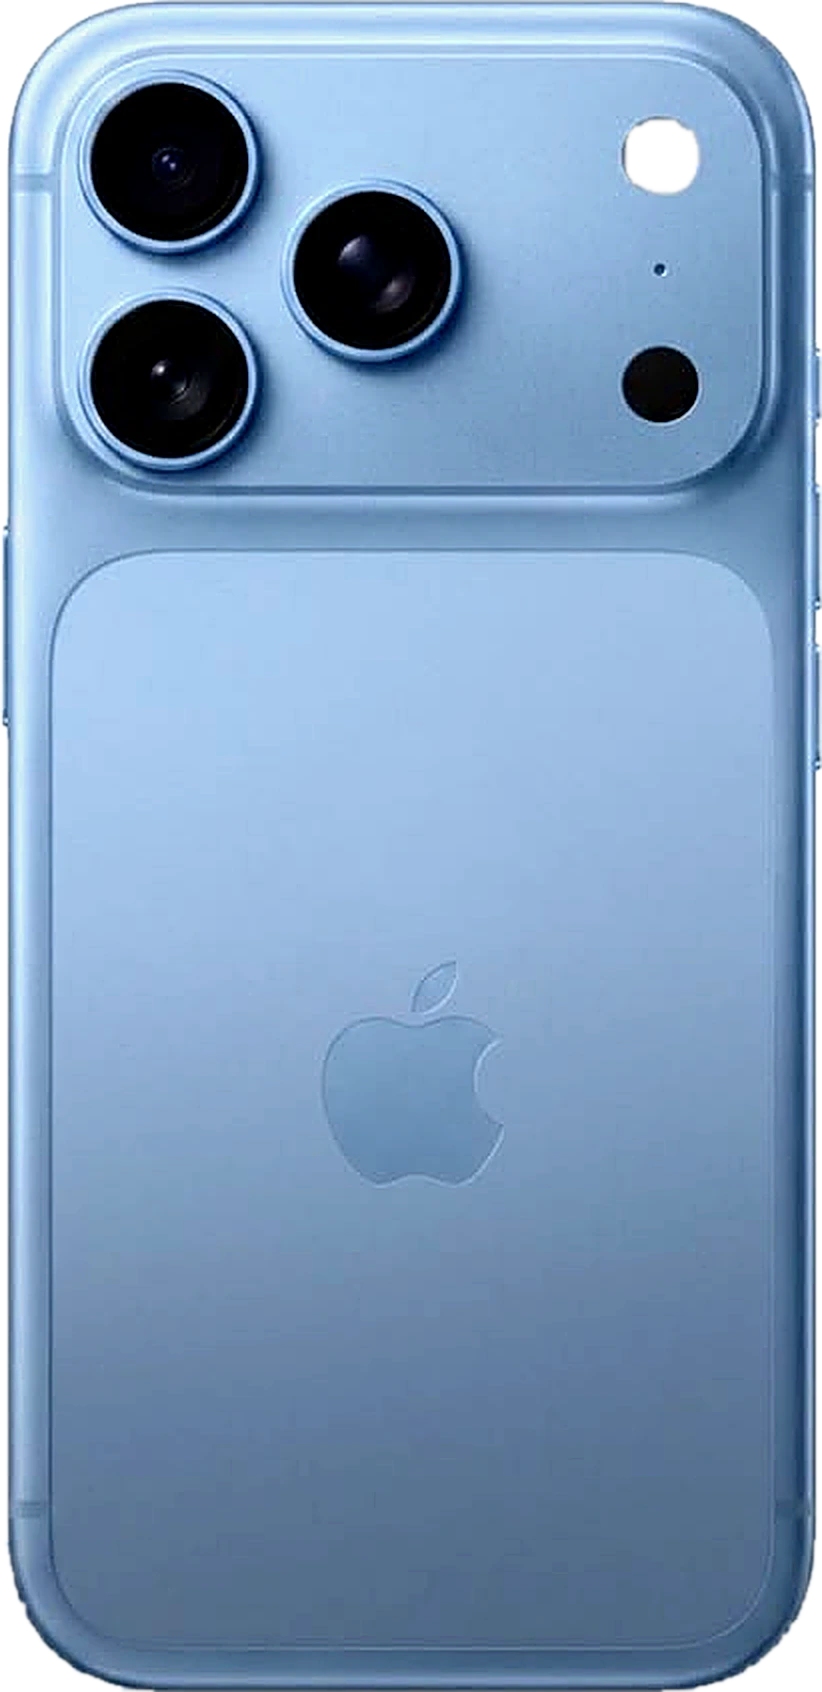
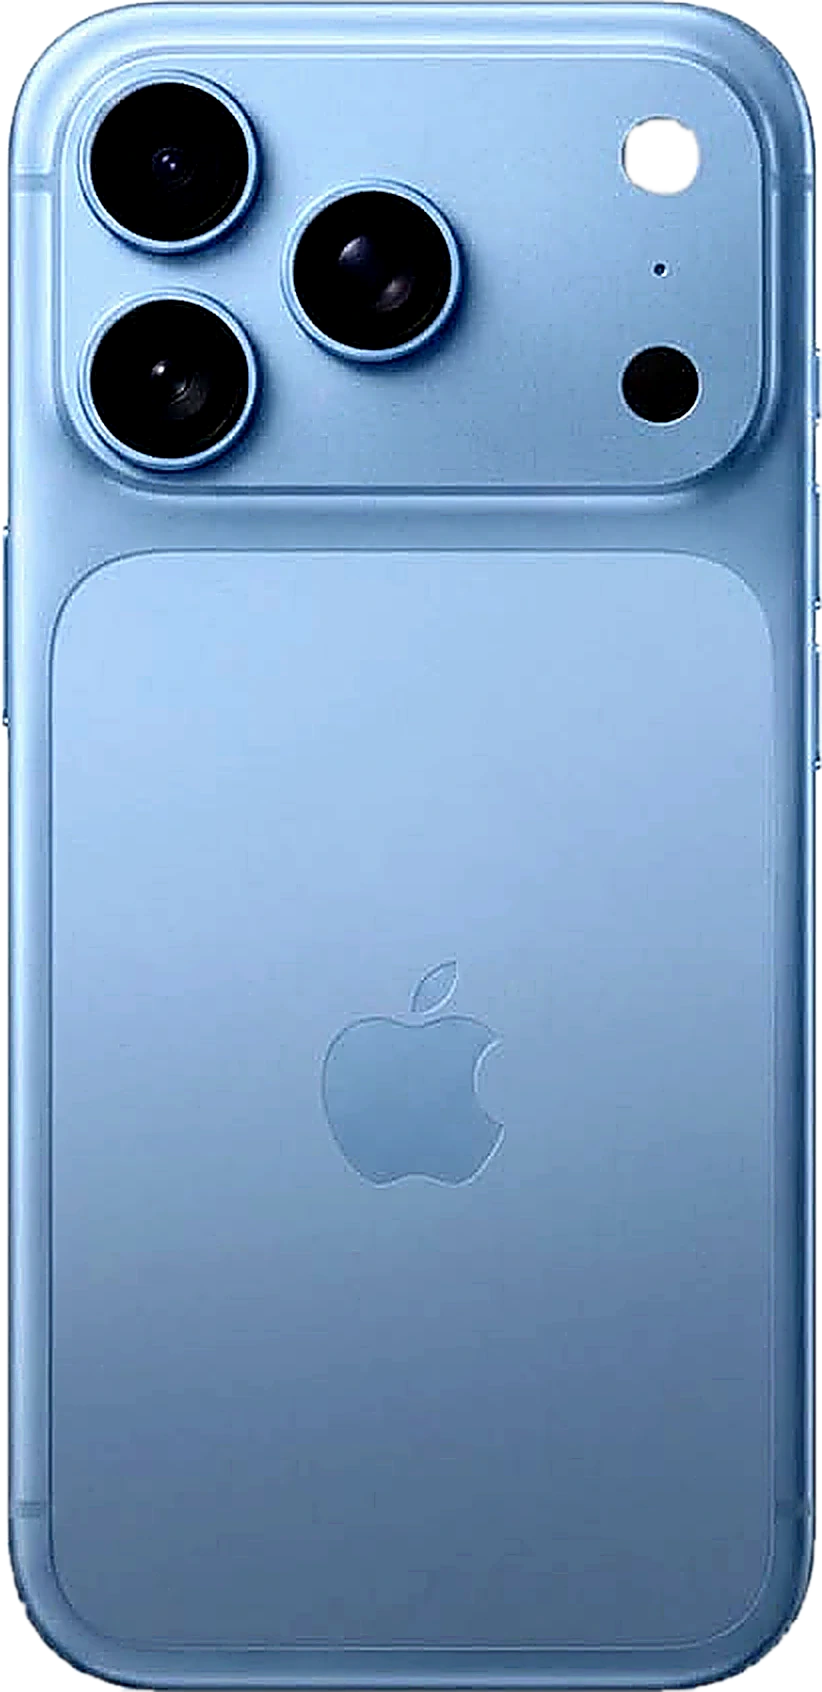
Download page: iPhone photo stays still and only turns (no floating or tilt), sharper high-quality back image
Claude-Session: https://claude.ai/code/session_01M72xkkZKEdziHXBkDeLETA

diff --git a/get/index.html b/get/index.html
@@ -398,8 +398,8 @@ h2{font-size:36px;letter-spacing:-.03em;line-height:1.08;margin:8px 0 10px;font-
 .g3 .g3f{transform-style:preserve-3d;transition:transform 1.1s cubic-bezier(.6,0,.3,1);background:linear-gradient(145deg,#b9d2ee,#6f94c2 50%,#a3bfe0)!important}
 .g3 .g3f.back{transform:rotateY(calc(var(--gy) + 180deg)) rotateX(var(--gx))}
 .g3 .g3f .sc3{backface-visibility:hidden;-webkit-backface-visibility:hidden}
-.bk3{position:absolute;inset:-1px;transform:rotateY(180deg) translateZ(1px);backface-visibility:hidden;-webkit-backface-visibility:hidden;background:url(/get/iphone-back.webp?v=1) center/100% 100% no-repeat;border-radius:inherit}
-.bk3:after{content:"";position:absolute;inset:0;border-radius:inherit;-webkit-mask:url(/get/iphone-back.webp?v=1) center/100% 100% no-repeat;mask:url(/get/iphone-back.webp?v=1) center/100% 100% no-repeat;background:linear-gradient(115deg,transparent 35%,rgba(255,255,255,.7) 48%,transparent 61%);background-size:260% 100%;background-position:130% 0}
+.bk3{position:absolute;inset:-1px;transform:rotateY(180deg) translateZ(1px);backface-visibility:hidden;-webkit-backface-visibility:hidden;background:url(/get/iphone-back.webp?v=2) center/100% 100% no-repeat;border-radius:inherit}
+.bk3:after{content:"";position:absolute;inset:0;border-radius:inherit;-webkit-mask:url(/get/iphone-back.webp?v=2) center/100% 100% no-repeat;mask:url(/get/iphone-back.webp?v=2) center/100% 100% no-repeat;background:linear-gradient(115deg,transparent 35%,rgba(255,255,255,.7) 48%,transparent 61%);background-size:260% 100%;background-position:130% 0}
 .g3f.back .bk3:after{animation:bkSh 2.2s .4s ease-in-out both}
 @keyframes bkSh{to{background-position:-60% 0}}
 
@@ -521,6 +521,14 @@ html.lite .nav img{opacity:1!important}
 .mpw-steps:before{display:none!important}
 .mpw-s:not(:last-child):after{content:"";position:absolute;top:27px;left:62px;width:calc(100% + 14px - 68px);height:2px;border-radius:2px;background:rgba(226,184,116,.55);z-index:-1}
 @media (max-width:1000px){.mpw-s:not(:last-child):after{top:62px;left:27px;width:2px;height:calc(100% + 18px - 68px)}}
+
+/* the iPhone photo stays still (no floating or tilt, so it stays sharp) and only turns */
+.g3 .g3f.back{animation:none!important;transform:rotateY(180deg)!important}
+.g3 .g3f.turn{animation:turnFlat 1.1s cubic-bezier(.45,0,.2,1) both!important}
+@keyframes turnFlat{from{transform:rotateY(180deg)}to{transform:rotateY(0deg)}}
+.g3 .g3f:not(.back):not(.turn){transform:none!important}
+.g3 .bk3{image-rendering:-webkit-optimize-contrast;transform:rotateY(180deg)}
+@media (max-width:980px){.g3 .g3f.back{animation:none!important;transform:none!important}.g3 .g3f.turn{animation:flip2 1.1s cubic-bezier(.45,0,.2,1) both!important}.g3 .bk3{transform:none}}
 </style>
 </head>
 <body>
